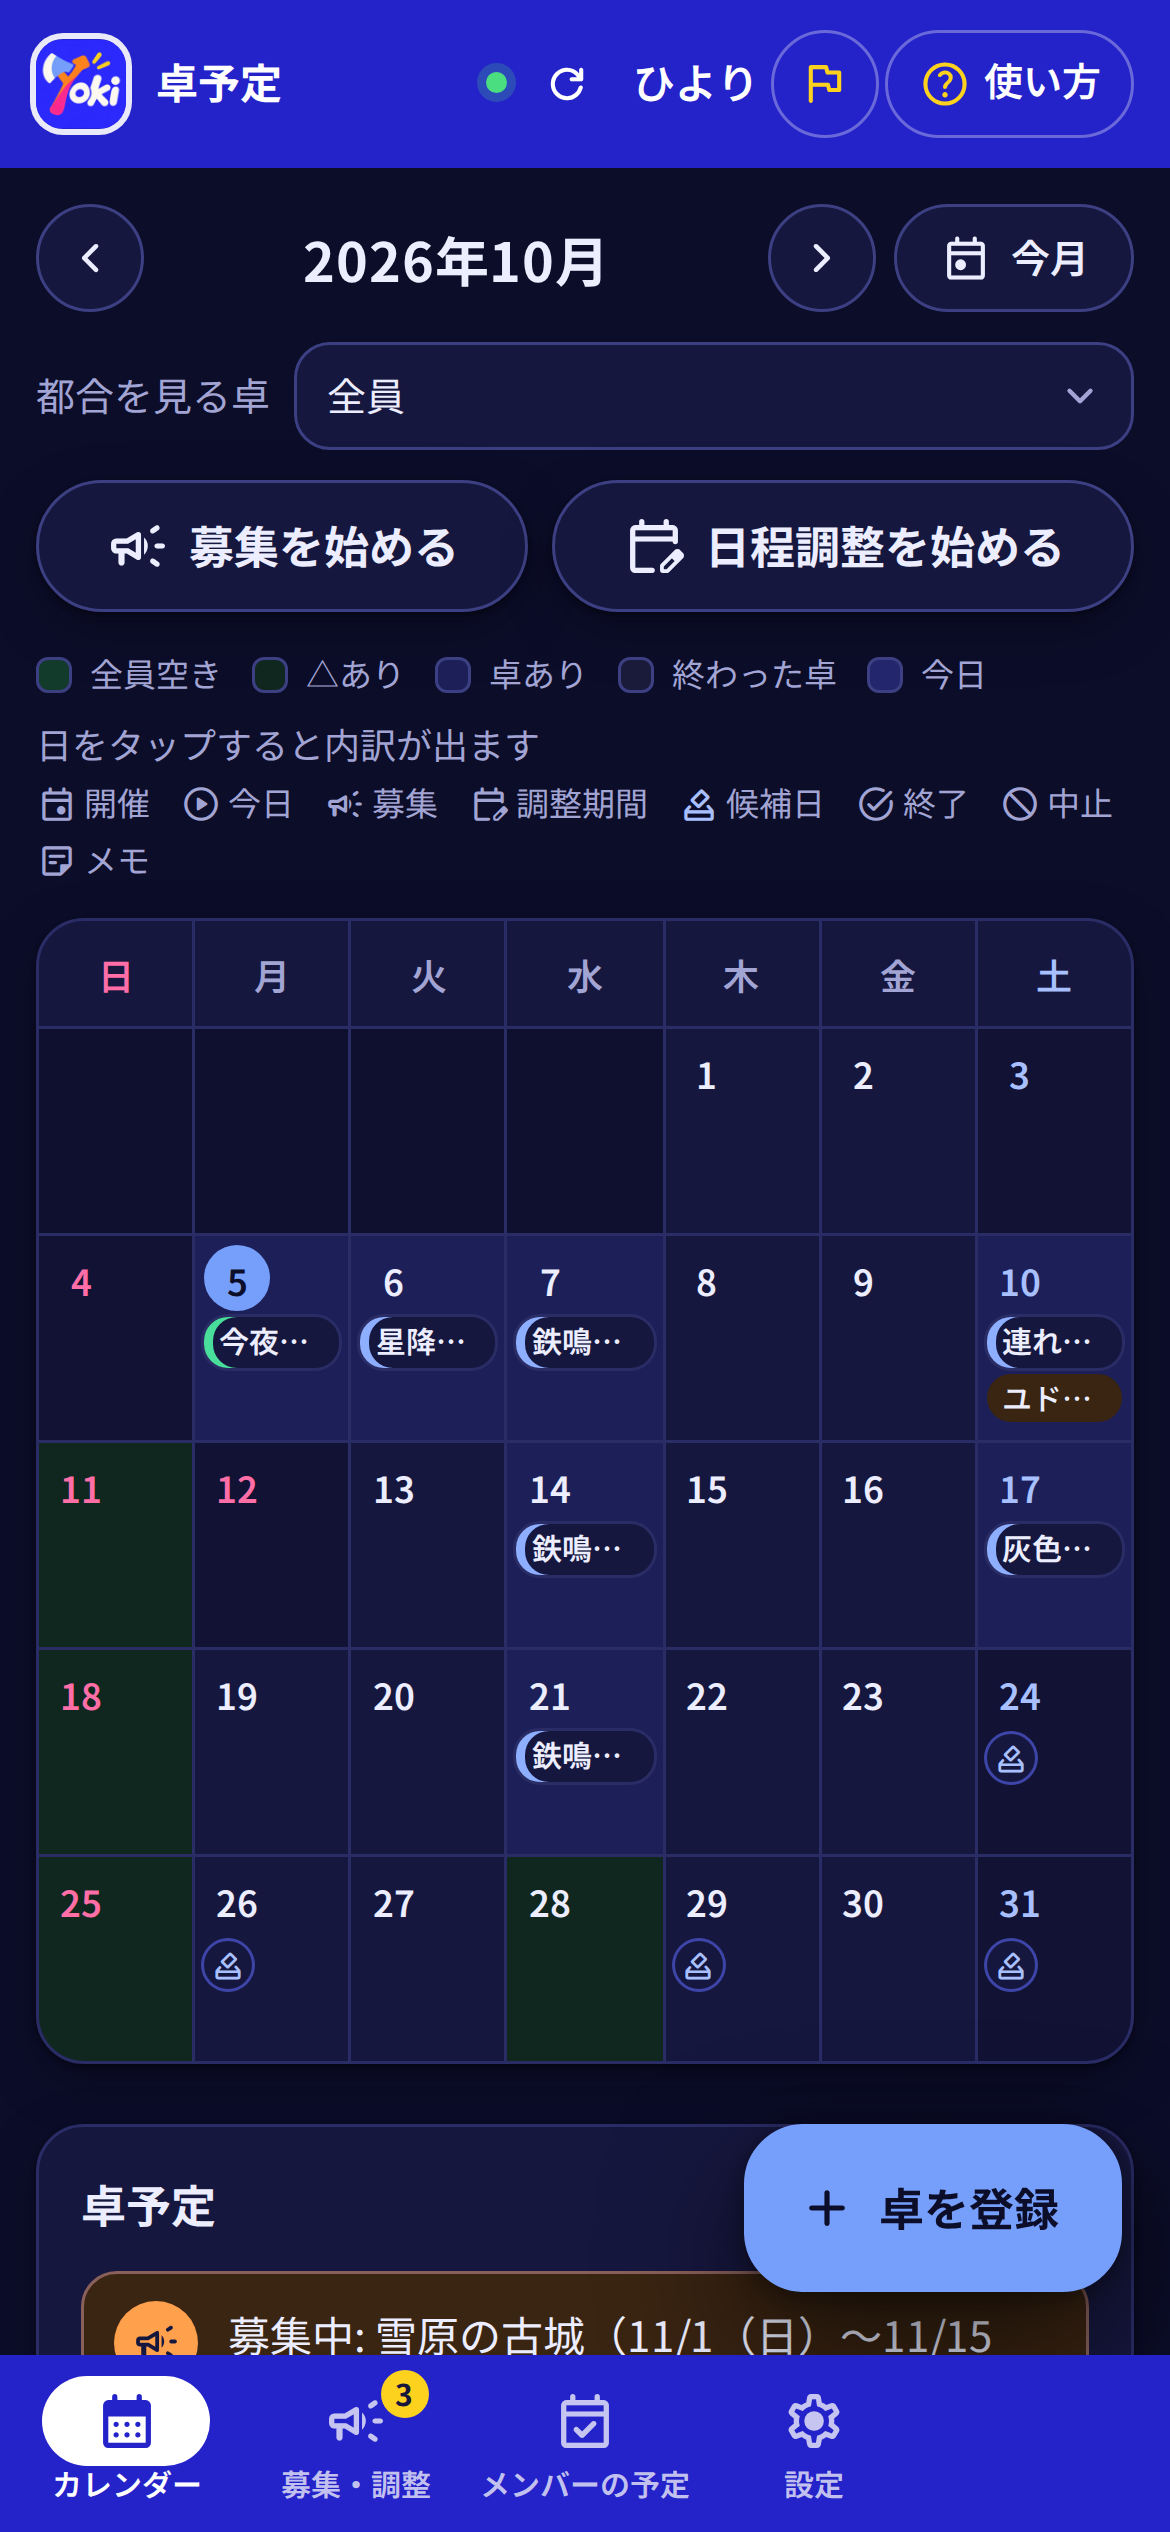
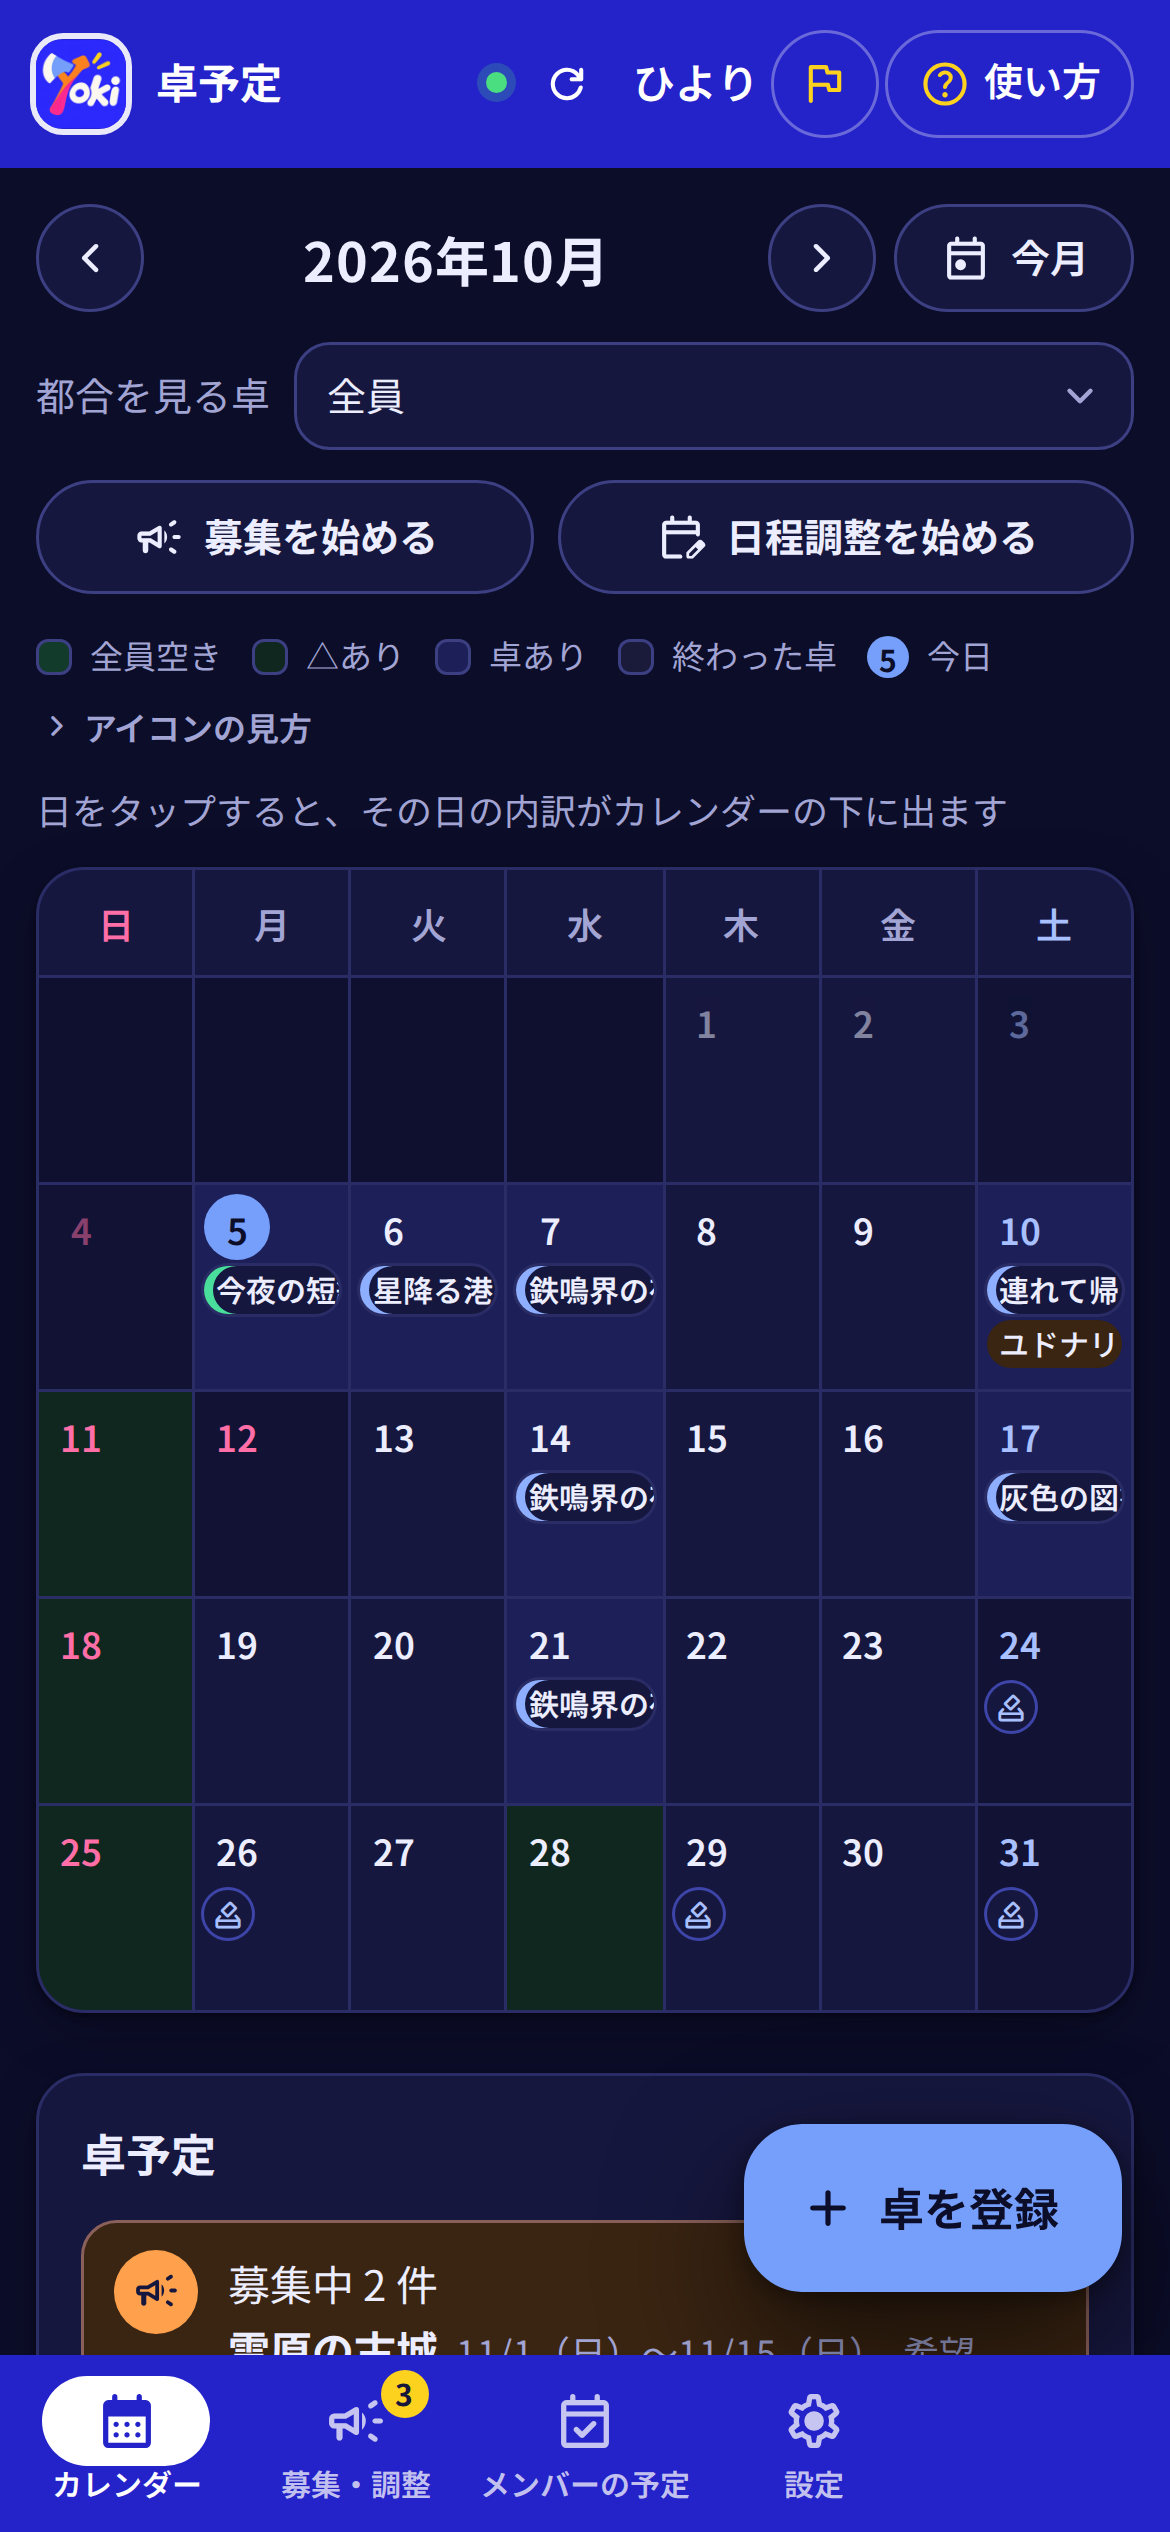
docs(site): アイコンの見方と鉛筆の説明を直し、スクリーンショットを撮り直す
- カレンダーのふつうの開催の札にアイコンが無くなったので、見方から「予定」を外し、「開催」を「今日の卓」にする
- 予定表の鉛筆は、パソコンではマウスを載せると出ると書く

diff --git a/website/.vitepress/theme/components/CalendarLegend.vue b/website/.vitepress/theme/components/CalendarLegend.vue
@@ -9,8 +9,7 @@
       <div><dt class="mono c-past">12</dt><dd>終わった卓<small>終了・中止の卓だけ</small></dd></div>
     </dl>
     <div class="icons">
-      <span><span class="ms" aria-hidden="true">event</span>予定</span>
-      <span><span class="ms" aria-hidden="true">play_circle</span>開催</span>
+      <span><span class="ms" aria-hidden="true">play_circle</span>今日の卓</span>
       <span class="v"><span class="ms" aria-hidden="true">campaign</span>募集</span>
       <span><span class="ms" aria-hidden="true">edit_calendar</span>調整期間</span>
       <span><span class="ms" aria-hidden="true">how_to_vote</span>候補日</span>
